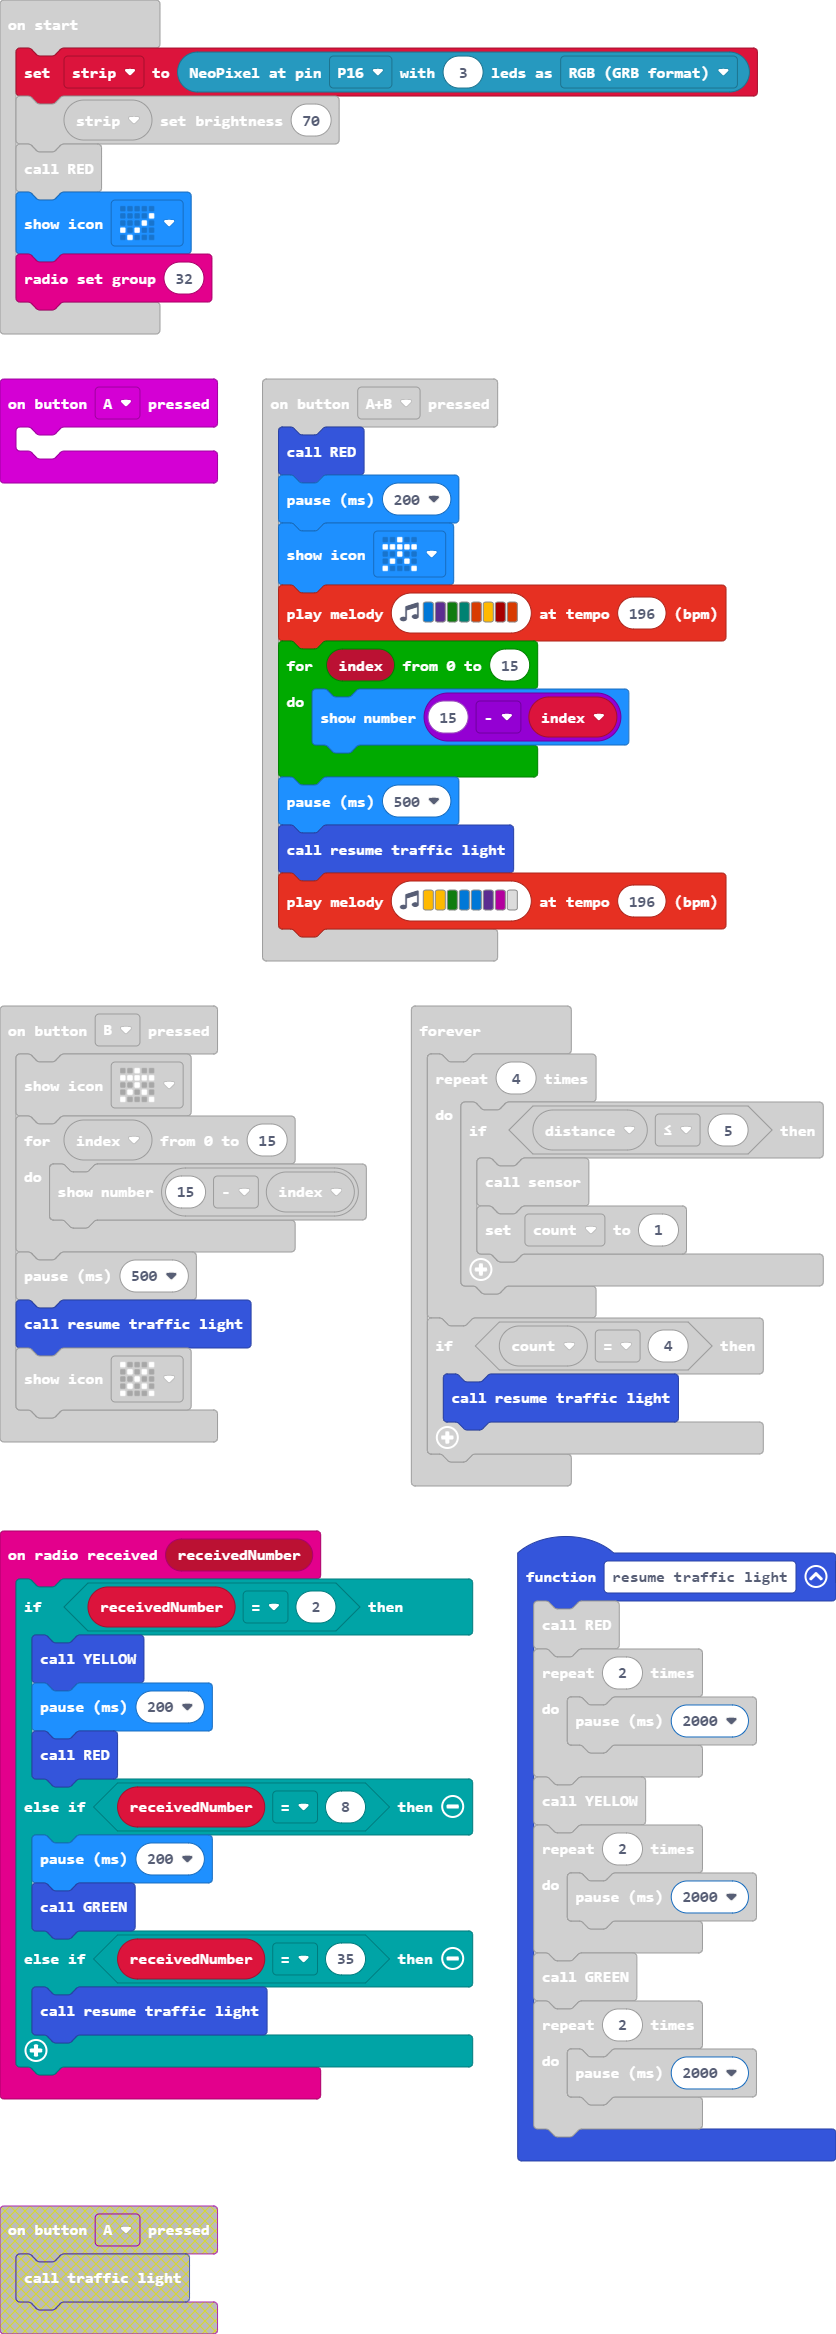
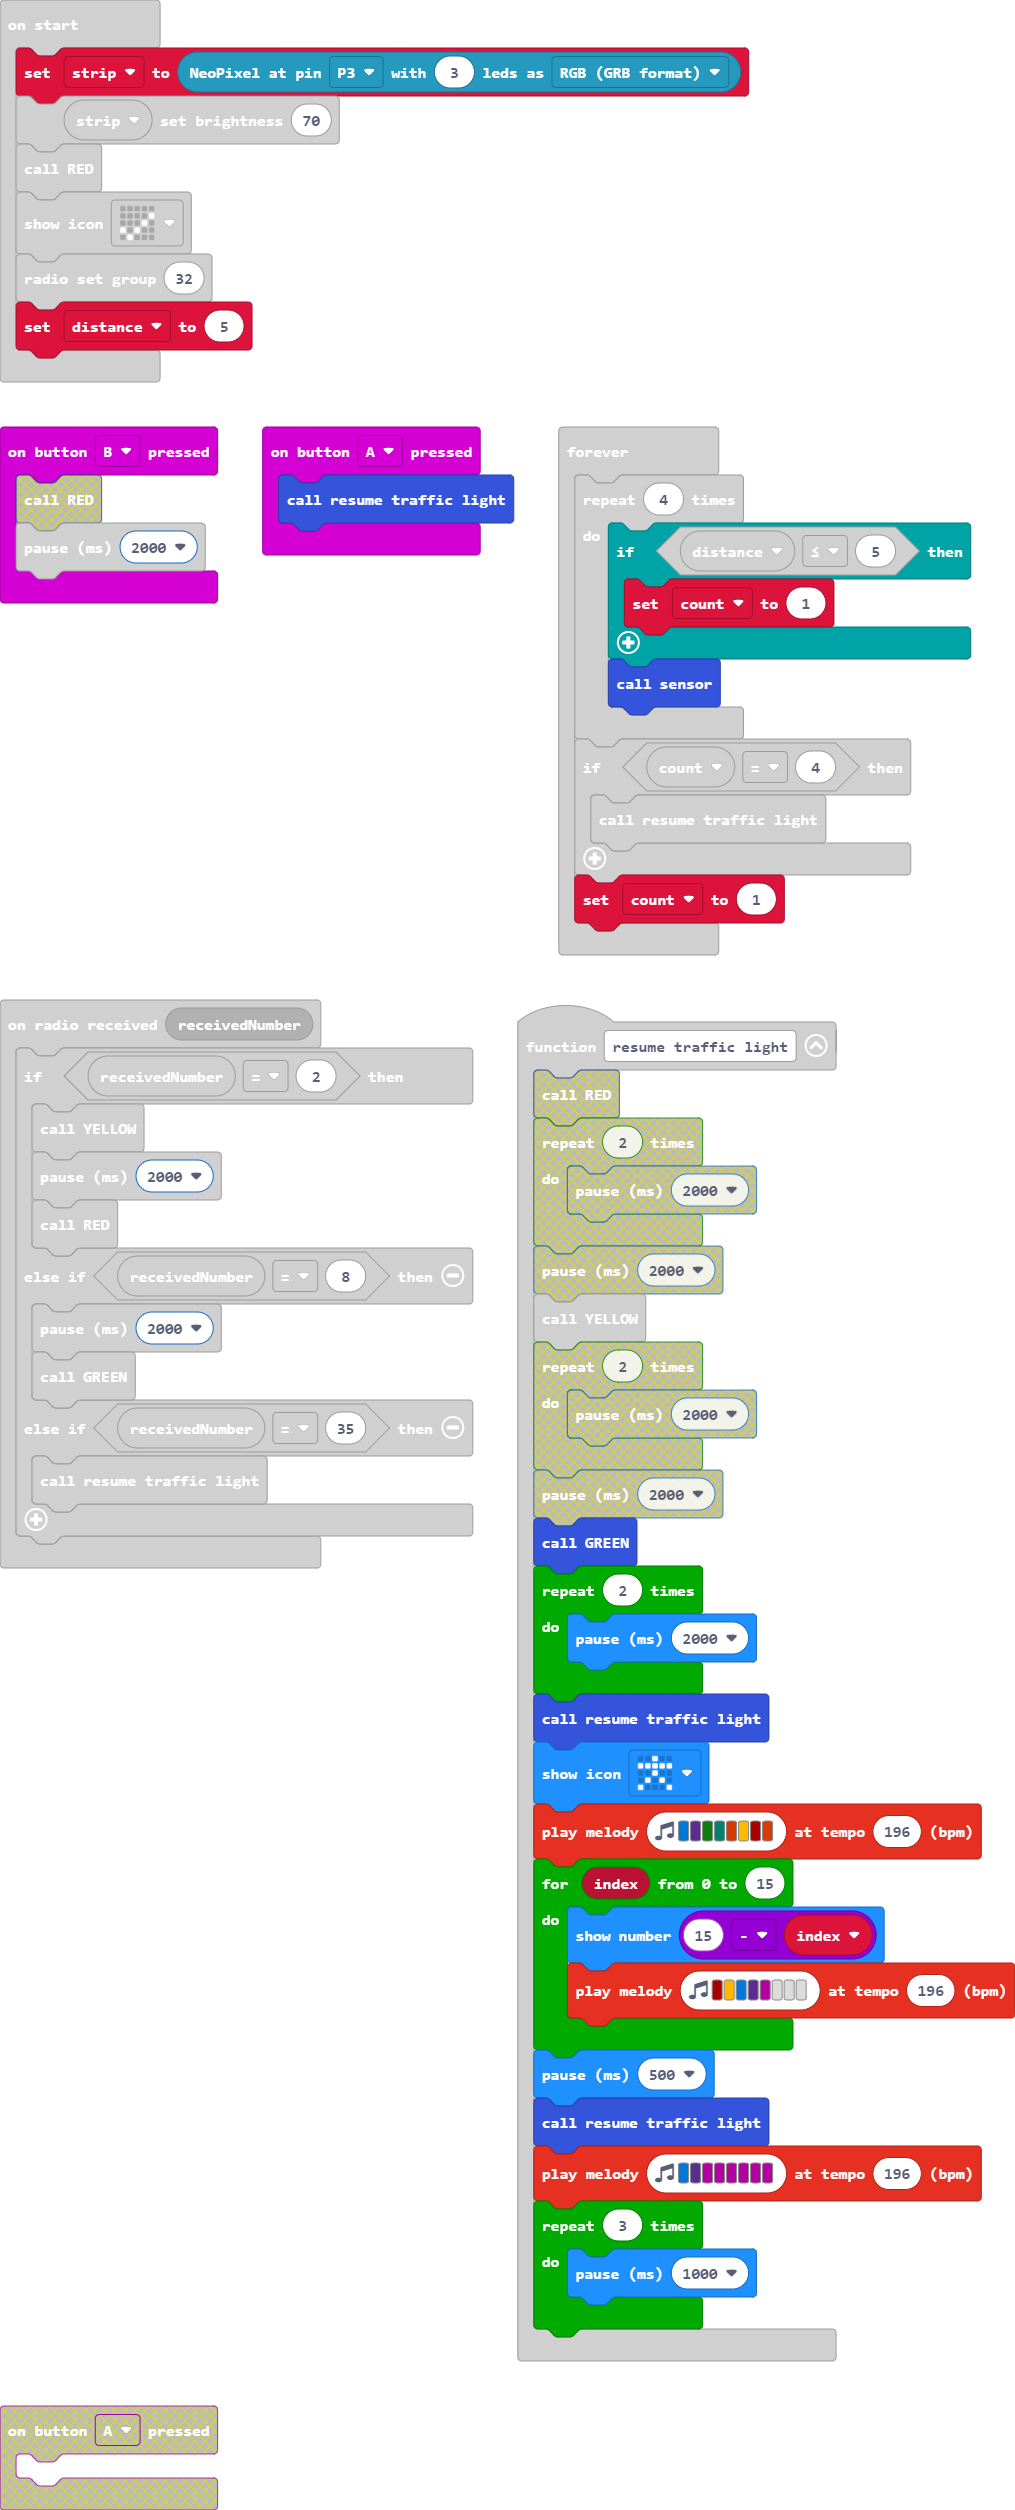
Update main.blocks, main.ts

diff --git a/main.ts b/main.ts
@@ -1,17 +1,17 @@
 radio.onReceivedNumber(function (receivedNumber) {
     if (receivedNumber == 2) {
         YELLOW()
-        basic.pause(200)
+        basic.pause(2000)
         RED()
     } else if (receivedNumber == 8) {
-        basic.pause(200)
+        basic.pause(2000)
         GREEN()
     } else if (receivedNumber == 35) {
         resume_traffic_light()
     }
 })
 input.onButtonPressed(Button.A, function () {
-	
+    resume_traffic_light()
 })
 function RED () {
     range = strip.range(0, 1)
@@ -22,13 +22,10 @@ function RED () {
     range.showColor(neopixel.colors(NeoPixelColors.Black))
 }
 function resume_traffic_light () {
-    RED()
-    for (let index = 0; index < 2; index++) {
-        basic.pause(2000)
-    }
+    basic.pause(2000)
     YELLOW()
-    for (let index = 0; index < 2; index++) {
-        basic.pause(2000)
+    for (let index = 0; index < 3; index++) {
+        basic.pause(1000)
     }
     GREEN()
     for (let index = 0; index < 2; index++) {
@@ -43,26 +40,17 @@ function GREEN () {
     range = strip.range(2, 1)
     range.showColor(neopixel.colors(NeoPixelColors.Green))
 }
-input.onButtonPressed(Button.AB, function () {
-    RED()
-    basic.pause(200)
+input.onButtonPressed(Button.B, function () {
+    resume_traffic_light()
     basic.showIcon(IconNames.StickFigure)
     music.playMelody("E D G F B A C5 B ", 196)
     for (let index = 0; index <= 15; index++) {
         basic.showNumber(15 - index)
+        music.playMelody("C5 A E D C - - - ", 196)
     }
     basic.pause(500)
     resume_traffic_light()
-    music.playMelody("A A G E E D C - ", 196)
-})
-input.onButtonPressed(Button.B, function () {
-    basic.showIcon(IconNames.StickFigure)
-    for (let index = 0; index <= 15; index++) {
-        basic.showNumber(15 - index)
-    }
-    basic.pause(500)
-    resume_traffic_light()
-    basic.showIcon(IconNames.No)
+    music.playMelody("E D C C C C C C ", 196)
 })
 function sensor () {
     pins.digitalWritePin(DigitalPin.P1, 0)
@@ -82,22 +70,24 @@ function YELLOW () {
     range.showColor(neopixel.colors(NeoPixelColors.Black))
 }
 let count = 0
-let distance = 0
 let range: neopixel.Strip = null
+let distance = 0
 let strip: neopixel.Strip = null
-strip = neopixel.create(DigitalPin.P16, 3, NeoPixelMode.RGB)
+strip = neopixel.create(DigitalPin.P3, 3, NeoPixelMode.RGB)
 strip.setBrightness(70)
 RED()
 basic.showIcon(IconNames.Yes)
 radio.setGroup(32)
+distance = 5
 basic.forever(function () {
     for (let index = 0; index < 4; index++) {
         if (distance <= 5) {
-            sensor()
             count = 1
         }
+        sensor()
     }
     if (count == 4) {
         resume_traffic_light()
     }
+    count = 1
 })
